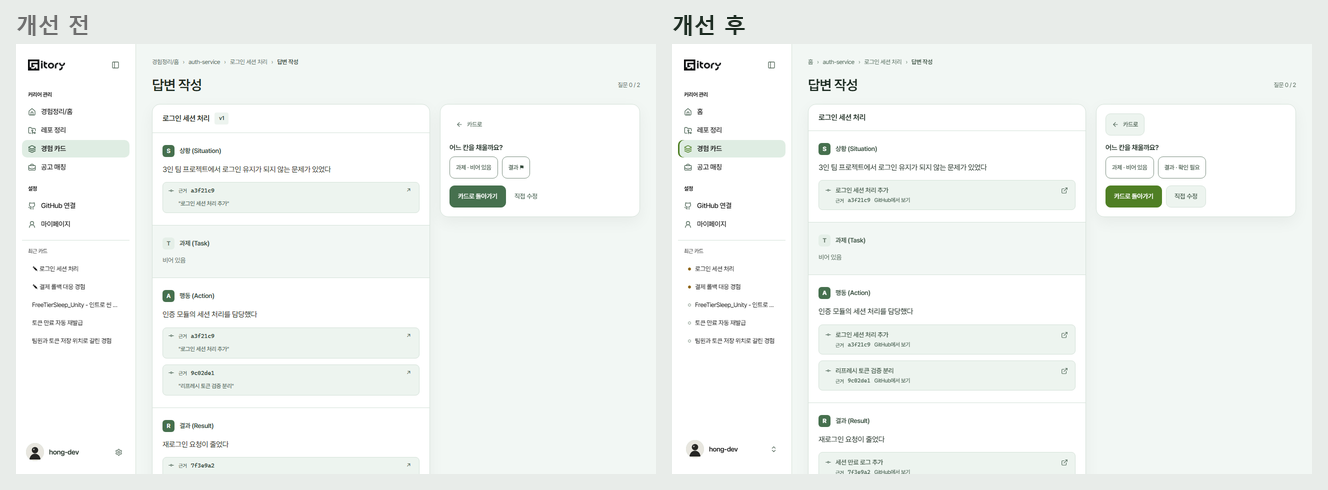
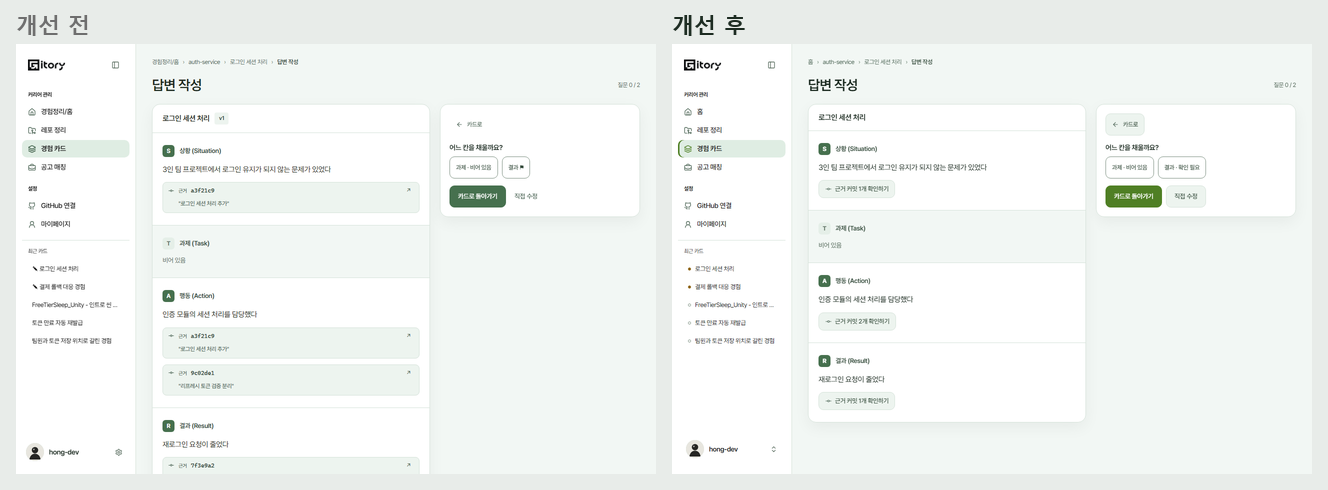
feat(fe): 근거는 칸마다 버튼 하나로 접고 팝업에서 보기, 확정 카드 화면 정리
- 실제 레포에선 칸마다 근거 커밋이 7개씩 붙어 문장보다 근거 띠가 화면을 차지했다(팀 피드백)
- "근거 커밋 N개 확인하기" 버튼을 누르면 그 칸의 문장과 근거 전부를 팝업으로, 거기서 GitHub diff 로 간다
- 인쇄에는 근거를 그대로 찍는다
- 확정 카드 위 버튼을 복사, 수정하기로 줄이고 작성 이력, 인쇄는 카드 관리로, 출처 표는 두 줄로

Changed region(s): [[0.6175, 0.4592, 0.7101, 0.9796], [0.6175, 0.3673, 0.6792, 0.4286], [0.7718, 0.3673, 0.8027, 0.398]]

diff --git a/frontend/src/features/cards/CardPage.tsx b/frontend/src/features/cards/CardPage.tsx
@@ -1,4 +1,4 @@
-import { Copy, EyeOff, History, ListChecks } from 'lucide-react';
+import { Copy, EyeOff, History, ListChecks, Printer } from 'lucide-react';
 import { DraftProgress } from './DraftProgress';
 import { CardNavigation } from './CardNavigation';
 import { useEffect, useRef, useState } from 'react';
@@ -7,7 +7,7 @@ import { CardTags } from '@/components/cards/CardTags';
 import { CardDeleteAction } from '@/components/cards/CardDeleteAction';
 import { useCard, useRegenerateField, useReopen } from '@/api/queries';
 import { isTerminal, StarField as StarFieldSchema, type Card, type ConfirmResult, type StarField } from '@/api/schemas';
-import { Badge, Breadcrumb, Button, EvidenceStrip, PageTitle, Skeleton, StickyFooter } from '@/components/ui';
+import { Badge, Breadcrumb, Button, EvidenceList, PageTitle, Skeleton, StickyFooter } from '@/components/ui';
 import { STAR_FIELDS, cardKindLabel, cardStatusLabel, candidateRefLabel, fieldKey, starFieldName, starFieldShort, cardContentLabel, interviewActionLabel, historyActionLabel } from '@/lib/labels';
 import { ymd } from '@/lib/format';
 import { toast } from '@/lib/toast';
@@ -128,8 +128,6 @@ export function CardPage() {
         )}
         <CardHeader card={card} right={<>
           <Button size="sm" onClick={exportMd} title="마스킹 적용된 표시값을 마크다운으로 복사">복사</Button>
-          <Button variant="outline" size="sm" onClick={print} title="면접 직전 복습용 인쇄">인쇄</Button>
-          <Button variant="outline" size="sm" onClick={() => setSp({ versions: '1' })}>{historyActionLabel}</Button>
           <Button variant="outline" size="sm" loading={reopen.isPending} onClick={() => reopen.mutate(undefined, { onSuccess: () => { track('card_reopened', { cardId }); toast('다시 편집할 수 있습니다. 확정 버전은 히스토리에 남습니다.'); } })}>수정하기</Button>
         </>} />
         <div className="two-col two-col--340">
@@ -140,21 +138,27 @@ export function CardPage() {
               return (
                 <StarRow key={f} field={f} label={starFieldShort[f]} dropped={!t} className={t ? undefined : 'star-read__row--gap'}>
                   {t ? <p className="star__text">{masked(t)}</p> : <span className="c-3 w-500" style={{ fontSize: 13 }}>비운 채로 확정했습니다</span>}
-                  {ev.map((e, i) => <EvidenceStrip key={i} e={e} />)}
+                  <EvidenceList items={ev} label={starFieldName[f]} sentence={t ? masked(t) : null} />
                 </StarRow>
               );
             })}
           </div>
           <aside className="stack card-review-aside" style={{ gap: 16 }}>
+            {/* 오른쪽은 한눈에 읽히는 세 덩어리만: 받을 질문, 출처 두 줄, 카드 관리. 확정일은 제목 아래에 이미 있다 */}
             <div className="card stack" style={{ gap: 10, padding: '16px 18px' }}>
               <span className="w-600" style={{ fontSize: 13.5 }}>이 카드로 받을 수 있는 질문</span>
-              {interviewQuestions(card).map((qq) => <div key={qq} className="row" style={{ gap: 8, alignItems: 'flex-start' }}><span className="c-3">·</span><span className="t-12l c-2">{qq}</span></div>)}
+              <ul className="aside-list">{interviewQuestions(card).map((qq) => <li key={qq} className="t-12l c-2">{qq}</li>)}</ul>
             </div>
-            <div className="card stack" style={{ gap: 10, padding: '16px 18px' }}>
-              <span className="w-600" style={{ fontSize: 13.5 }}>출처</span>
-              {[['후보', srcLabel], ['레포', repoName ?? '—'], ['커밋 근거', `${card.evidence.filter((e) => e.type === 'COMMIT').length}건`], ['내가 말한 것', `${card.evidence.filter((e) => e.type !== 'COMMIT').length}건`], ['마스킹', card.maskRules.length ? `규칙 ${card.maskRules.length}개` : '없음'], ['확정', card.confirmedAt ? ymd(card.confirmedAt) : '—']].map(([k, v]) => (
-                <div key={k} className="row t-12"><span className="c-2">{k}</span><span className="right w-600">{v}</span></div>
-              ))}
+            <div className="card stack" style={{ gap: 12, padding: '16px 18px' }}>
+              <div className="stack" style={{ gap: 4 }}>
+                <span className="t-12 w-600 c-3">출처</span>
+                <span className="t-12l">{[repoName, srcLabel].filter(Boolean).join(', ') || '직접 작성'}</span>
+                <span className="t-12 c-2">근거 커밋 {card.evidence.filter((e) => e.type === 'COMMIT').length}건, 내가 말한 것 {card.evidence.filter((e) => e.type !== 'COMMIT').length}건{card.maskRules.length ? `, 가린 정보 ${card.maskRules.length}개` : ''}</span>
+              </div>
+              <div className="card-tools">
+                <Button variant="ghost" size="sm" onClick={() => setSp({ versions: '1' })}><History size={15} aria-hidden />{historyActionLabel}</Button>
+                <Button variant="ghost" size="sm" onClick={print} title="면접 직전 복습용 인쇄"><Printer size={15} aria-hidden />인쇄</Button>
+              </div>
             </div>
             <CardNavigation cardId={cardId} />
           </aside>

diff --git a/frontend/src/components/ui/index.tsx b/frontend/src/components/ui/index.tsx
@@ -1,9 +1,10 @@
-import type { ReactNode, ButtonHTMLAttributes, InputHTMLAttributes, ComponentPropsWithRef } from 'react';
+import { useState, type ReactNode, type ButtonHTMLAttributes, type InputHTMLAttributes, type ComponentPropsWithRef } from 'react';
 import { Link } from 'react-router-dom';
 import { Check as CheckIcon, ExternalLink, FolderGit2, GitCommitHorizontal, Inbox, MessageSquareQuote, type LucideIcon } from 'lucide-react';
 import { SearchField } from './SearchField';
 import type { Evidence as EvidenceT, StarField, CardKind } from '@/api/schemas';
 import { evidenceTypeLabel } from '@/lib/labels';
+import { Modal } from './Modal';
 
 const cx = (...xs: (string | false | null | undefined)[]) => xs.filter(Boolean).join(' ');
 const STAR_LABELS: Record<StarField, string> = { S: '상황', T: '과제', A: '행동', R: '결과' };
@@ -122,6 +123,34 @@ export function EvidenceStrip({ e, turnText }: { e: EvidenceT; turnText?: string
       <span className="evidence__label">{evidenceTypeLabel[e.type]}</span>
       <span className="grow" style={{ whiteSpace: 'nowrap', overflow: 'hidden', textOverflow: 'ellipsis' }}>{turnText ?? (e.turnNo ? `${e.turnNo}번째 답변` : '직접 작성한 내용')}</span>
     </div>
+  );
+}
+
+/**
+ * 한 칸의 근거 — 화면에는 "근거 N개 확인하기" 버튼만 두고, 누르면 팝업에서 정리된 근거를 본다.
+ * 실제 레포에선 한 칸에 근거 커밋이 7개씩 붙기도 해서 다 펼치면 문장보다 근거 띠가 화면을 차지했다.
+ * 근거가 있다는 사실(개수)은 늘 보이고, 내용은 원할 때만. 더 자세히는 팝업 안의 GitHub 링크(diff)로 간다.
+ * 인쇄(면접 직전 복습용)에는 팝업이 없으니 근거를 본문에 그대로 찍는다.
+ */
+export function EvidenceList({ items, label, sentence }: { items: EvidenceT[]; label?: string; sentence?: string | null }) {
+  const [open, setOpen] = useState(false);
+  if (!items.length) return null;
+  const commits = items.filter((e) => e.type === 'COMMIT').length;
+  const said = items.length - commits;
+  const count = [commits && `근거 커밋 ${commits}개`, said && `내 답변 ${said}개`].filter(Boolean).join(', ');
+  return (
+    <>
+      <button type="button" className="evidence-open" aria-haspopup="dialog" onClick={() => setOpen(true)}>
+        <GitCommitHorizontal size={14} aria-hidden />{count} 확인하기
+      </button>
+      <div className="evidence-print">{items.map((e, i) => <EvidenceStrip key={i} e={e} />)}</div>
+      {open && (
+        <Modal title={label ? `${label} 근거` : '근거'} sub={sentence ?? undefined} width={600} onClose={() => setOpen(false)}>
+          <p className="evidence-dialog__lead">이 문장을 받치는 기록이에요. 자세한 변경 내용은 "GitHub에서 보기"로 확인할 수 있어요.</p>
+          <div className="evidence-dialog__list">{items.map((e, i) => <EvidenceStrip key={i} e={e} />)}</div>
+        </Modal>
+      )}
+    </>
   );
 }
 

diff --git a/frontend/src/test/guidance-ux.test.tsx b/frontend/src/test/guidance-ux.test.tsx
@@ -6,7 +6,7 @@ import { ApiError } from '@/api/client';
 import { errorView } from '@/api/errorView';
 import { keys } from '@/api/keys';
 import { Evidence, Me } from '@/api/schemas';
-import { Button, EvidenceStrip } from '@/components/ui';
+import { Button, EvidenceList, EvidenceStrip } from '@/components/ui';
 import { AiWait } from '@/components/ui/AiWait';
 import { QueryFailure } from '@/components/ui/QueryFailure';
 import { GithubBanner } from '@/components/layout/GithubBanner';
@@ -73,6 +73,27 @@ describe('근거는 해시보다 내용이 먼저 (#437 화면 쪽)', () => {
     render(<EvidenceStrip e={commit({ url: null })} />);
     expect(screen.queryByRole('link')).not.toBeInTheDocument();
     expect(screen.getByText('로그인 세션 처리 추가')).toBeInTheDocument();
+  });
+});
+
+describe('근거는 원할 때 팝업으로 본다', () => {
+  const many = Array.from({ length: 7 }, (_, i) => commit({ sha: `c0ffee${i}`, snippet: `커밋 ${i + 1}`, url: `https://github.com/o/r/commit/c0ffee${i}` }));
+
+  it('화면에는 개수만 담은 버튼 하나, 누르면 문장과 근거 7개가 팝업에 보인다', () => {
+    render(<EvidenceList items={many} label="행동" sentence="인터셉터로 재발급을 붙였다" />);
+    expect(screen.queryByRole('dialog')).not.toBeInTheDocument();
+    fireEvent.click(screen.getByRole('button', { name: '근거 커밋 7개 확인하기' }));
+    const dialog = screen.getByRole('dialog', { name: '행동 근거' });
+    expect(dialog).toHaveTextContent('인터셉터로 재발급을 붙였다');
+    expect(dialog.querySelectorAll('a.evidence')).toHaveLength(7);
+    fireEvent.keyDown(document, { key: 'Escape' });
+    expect(screen.queryByRole('dialog')).not.toBeInTheDocument();
+  });
+
+  it('직접 답한 근거는 따로 센다', () => {
+    const said = Evidence.parse({ field: 'A', type: 'USER_STATED', authoredBy: 'USER', sha: null, url: null, snippet: null, turnNo: 1 });
+    render(<EvidenceList items={[many[0], said]} />);
+    expect(screen.getByRole('button', { name: '근거 커밋 1개, 내 답변 1개 확인하기' })).toBeInTheDocument();
   });
 });
 

diff --git a/frontend/src/styles/guidance.css b/frontend/src/styles/guidance.css
@@ -58,6 +58,19 @@
 .card-tools { display: flex; flex-direction: column; gap: 6px; margin-top: 4px; }
 .card-tools .btn { justify-content: flex-start; width: 100%; }
 
+.aside-list { display: flex; flex-direction: column; gap: 6px; padding-left: 16px; list-style: disc; }
+.aside-list li::marker { color: var(--text-tertiary); }
+
+/* ───────── 근거: 버튼 하나 + 팝업 ───────── */
+.evidence-open { display: inline-flex; align-items: center; gap: 6px; align-self: flex-start; min-height: 36px; padding: 6px 12px; border-radius: var(--control-radius); background: var(--evidence-commit-bg); border: 1px solid var(--border-default); color: var(--evidence-commit-text); font-size: 12.5px; font-weight: var(--control-weight); }
+.evidence-open svg { color: var(--evidence-commit-label); }
+.evidence-open:hover { border-color: var(--border-selected); }
+.evidence-print { display: none; }
+.evidence-dialog__lead { font-size: 13px; line-height: 20px; color: var(--text-secondary); }
+.evidence-dialog__list { display: flex; flex-direction: column; gap: 8px; }
+@media (max-width: 767px) { .evidence-open { align-self: stretch; justify-content: center; min-height: var(--control-touch-size); } }
+@media print { .evidence-open { display: none; } .evidence-print { display: flex; flex-direction: column; gap: 6px; } }
+
 /* ───────── AI 대기 한 줄 ───────── */
 .ai-wait { display: flex; align-items: flex-start; gap: 12px; padding: 16px 18px; border-radius: var(--radius-lg); background: var(--bg-subtle); border: 1px solid var(--border-default); }
 .ai-wait__dots { display: inline-flex; gap: 4px; padding-top: 7px; flex: 0 0 auto; }

diff --git a/frontend/src/features/cards/CardModes.tsx b/frontend/src/features/cards/CardModes.tsx
@@ -3,7 +3,7 @@ import { flushSync } from 'react-dom';
 import { useQueryClient } from '@tanstack/react-query';
 import { keys } from '@/api/keys';
 import { isBlankCardText, type Card, type DraftFields, type StarField } from '@/api/schemas';
-import { Badge, Button, Chip, EvidenceStrip, Input, StickyFooter } from '@/components/ui';
+import { Badge, Button, Chip, EvidenceList, Input, StickyFooter } from '@/components/ui';
 import { STAR_FIELDS, fieldKey, starFieldName } from '@/lib/labels';
 import { useMask, useSaveDraft } from '@/api/queries';
 import { toast } from '@/lib/toast';
@@ -87,7 +87,7 @@ export function EditMode({ card, onDone, initialField }: { card: Card; onDone: (
               metadata={dirty && <><Badge kind="CAUTION">고친 칸</Badge><button type="button" className="star-row__undo t-12 w-500 c-2" disabled={canceling} onClick={() => setDraft((d) => ({ ...d, [f]: baseRef.current[f] }))}>되돌리기</button></>}
               ref={(element) => { fields.current[f] = element; }} maxLength={CONFIG.MANUAL_FIELD_MAX} disabled={canceling} value={draft[f]} onChange={(e) => setDraft((d) => ({ ...d, [f]: e.target.value }))}
               placeholder={ev.length ? '' : '여기 쓰시면 내가 쓴 문장으로 저장돼요'} aria-label={starFieldName[f]}>
-              {ev.map((e, i) => <EvidenceStrip key={i} e={e} />)}
+              <EvidenceList items={ev} label={starFieldName[f]} sentence={draft[f] || null} />
               {dirty && ev.some((e) => e.type === 'COMMIT') && (
                 <div className="star__why"><strong>커밋에 없는 내용은 근거가 뒷받침하지 못해요</strong></div>
               )}

diff --git a/frontend/src/features/cards/InterviewPage.tsx b/frontend/src/features/cards/InterviewPage.tsx
@@ -4,7 +4,7 @@ import { ArrowLeft } from 'lucide-react';
 import { errorView } from '@/api/errorView';
 import { useAnswerInterview, useAskInterview, useCard, useInterview } from '@/api/queries';
 import { StarField as StarFieldSchema, type EvidenceType, type StarField } from '@/api/schemas';
-import { Badge, Breadcrumb, Button, EvidenceStrip, Note, PageTitle, Skeleton, Textarea } from '@/components/ui';
+import { Badge, Breadcrumb, Button, EvidenceList, Note, PageTitle, Skeleton, Textarea } from '@/components/ui';
 import { AiWait } from '@/components/ui/AiWait';
 import { STAR_FIELDS, evidenceTypeLabel, fieldKey, starFieldName, starFieldShort } from '@/lib/labels';
 import { CONFIG } from '@/lib/config';
@@ -101,7 +101,7 @@ export function InterviewPage() {
                   className={`${!t ? 'star-read__row--gap' : ''} ${pending ? 'star-read__row--now' : ''}`}
                   metadata={pending && <Badge kind="PR">지금 채우는 칸</Badge>}>
                   {t ? <p className="star__text">{t}</p> : <span className="c-3" style={{ fontSize: 13 }}>{pending ? '질문에 답하면 이 칸에 저장돼요' : '비어 있음'}</span>}
-                  {ev.map((e, i) => <EvidenceStrip key={i} e={e} />)}
+                  <EvidenceList items={ev} label={starFieldName[f]} sentence={t} />
                 </StarRow>
               );
             })}

diff --git a/frontend/e2e/ui-reading-alignment.spec.ts b/frontend/e2e/ui-reading-alignment.spec.ts
@@ -18,7 +18,9 @@ test('all three repository step labels are visible without horizontal scrolling 
 
 test('mobile evidence links are easy to press and expose long snippets without truncation', async ({ page }) => {
   await page.setViewportSize({width:320,height:900}); await loginAsDemo(page); await page.goto('/cards/card_01');
-  const evidence=page.locator('a.evidence').first(); await expect(evidence).toBeVisible();
+  // 근거는 칸마다 버튼 하나로 접혀 있고 팝업에서 본다
+  const open=page.getByRole('button',{name:/근거 커밋 \d+개 확인하기/}).first(); expect((await open.boundingBox())!.height).toBeGreaterThanOrEqual(44); await open.click();
+  const evidence=page.getByRole('dialog').locator('a.evidence').first(); await expect(evidence).toBeVisible();
   expect((await evidence.boundingBox())!.height).toBeGreaterThanOrEqual(44);
   await evidence.locator('.evidence__sha').evaluate(e=>{e.textContent='abcdef0123456789abcdef0123456789abcdef0123';});
   await evidence.locator('.evidence__snippet').evaluate(e=>{e.textContent='긴 커밋 설명과 경로를 화면에서 모두 읽을 수 있어야 합니다. '.repeat(4);});

diff --git a/frontend/src/features/cards/StarBlock.tsx b/frontend/src/features/cards/StarBlock.tsx
@@ -2,7 +2,7 @@ import { Pencil } from 'lucide-react';
 import { applyMask } from '@/lib/mask';
 export { applyMask } from '@/lib/mask';
 import type { Card, StarField } from '@/api/schemas';
-import { Badge, Button, EvidenceStrip, StarKey } from '@/components/ui';
+import { Badge, Button, EvidenceList, StarKey } from '@/components/ui';
 import { dropReasonLabel, fieldKey, starFieldName, starFieldShort, interviewActionLabel } from '@/lib/labels';
 
 /**
@@ -57,7 +57,7 @@ export function StarBlock({ card, field, onAsk, onEdit, onRegenerate, masked }: 
               {onAsk && <Button variant="outline" size="sm" className="right" aria-label={`${starFieldShort[field]} 답변하기`} onClick={onAsk}>{interviewActionLabel}</Button>}
             </div>
           )}
-          {ev.map((e, i) => <EvidenceStrip key={i} e={e} />)}
+          <EvidenceList items={ev} label={starFieldName[field]} sentence={shown} />
         </>
       )}
     </section>

diff --git a/frontend/docs/2026-10-25-GUIDANCE_UX.md b/frontend/docs/2026-10-25-GUIDANCE_UX.md
@@ -8,6 +8,8 @@
 | --- | --- | --- |
 | 버튼을 누르면 글자가 사라지고 회색 상자만 남음 | 로딩 중에도 글자와 버튼 색을 유지하고 앞에 스피너 | `ui.css` `.btn--loading` |
 | AI 를 기다리는 동안 회색 상자만 보임 | 무엇을 하는 중인지 한 문장 + 움직이는 점. 10초가 넘으면 기다리는 이유를 덧붙임 | `AiWait` (되묻기 질문·답변, 분석 시작, 매칭 불러오기) |
+| 실제 레포에선 칸마다 근거 커밋이 7개씩 붙어 근거 띠가 문장보다 화면을 더 차지함 | 칸마다 "근거 커밋 N개 확인하기" 버튼 하나. 누르면 팝업에 그 칸의 문장과 근거 전부, 거기서 "GitHub에서 보기"로 diff. 인쇄에는 근거를 그대로 찍음 | `EvidenceList` |
+| 확정 카드 화면에 버튼 4개와 출처 표 6줄 | 위에는 복사, 수정하기만. 작성 이력, 인쇄는 오른쪽 카드 관리로, 출처는 두 줄로(확정일은 제목 아래 이미 있음) | `CardPage` |
 | 근거에 커밋 해시가 굵게 먼저 나옴 | 커밋 메시지를 첫 줄에, sha 7자리와 "GitHub에서 보기"는 둘째 줄에 작게 | `EvidenceStrip` |
 | 링크 없는 근거가 `#` 으로 새 탭을 엶 | 링크가 없으면 누를 수 없는 띠로 | `EvidenceStrip` |
 | 오류 화면에 "API 계약", JSON, HTTP 코드 | 사과와 할 일(다시 시도, 홈으로)만. 원인은 "문의할 때 보낼 정보"로 접음 | `ErrorBoundary` |
@@ -34,6 +36,8 @@
 - GitHub 연결 끊김은 막지 않고 알리기만 한다. 이미 만든 카드는 연결 없이 볼 수 있다. 새 정리만 연결이 필요하다.
 - 진행률은 여전히 지어내지 않는다(`jobView.ts` 원칙 유지). 모르는 동안은 문장과 움직임으로 살아 있음을 보인다.
 
+- 근거를 기본으로 숨긴 이유: 팀 논의(10/25)에서 "화면에 몇 개 보이고 더 보기"와 "버튼만 두고 팝업에서 정리해 보여 주기"가 나왔고, 정보가 많다는 피드백에 맞춰 팝업으로 정했다. 근거가 있다는 사실(개수)은 버튼에 늘 보인다.
+
 ## 목 시나리오
 
 | 주소 | 보이는 것 |
@@ -46,6 +50,7 @@
 
 | 장면 | 비교 |
 | --- | --- |
+| 근거 많은 카드(실제 레포 → 버튼 → 팝업) | ![근거 팝업](screenshots/2026-10-25-guidance/20-evidence-popup.png) |
 | 분석 시작 버튼 로딩 | ![분석 시작 버튼](screenshots/2026-10-25-guidance/01-analyze-start-button.png) |
 | 분석 시작 직후 | ![분석 대기](screenshots/2026-10-25-guidance/01-analyze-start-waiting.png) |
 | 되묻기 질문 만드는 중 | ![되묻기 대기](screenshots/2026-10-25-guidance/02-interview-ask.png) |
